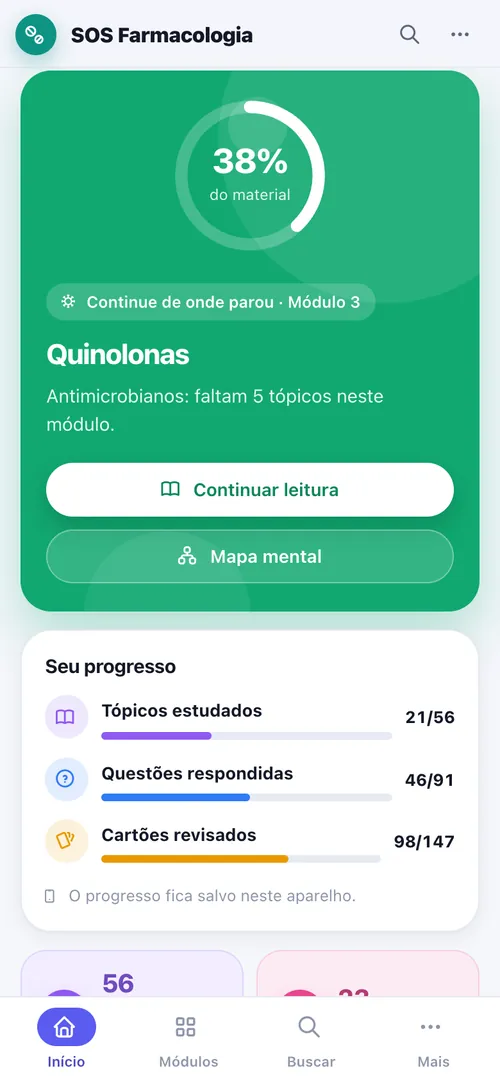
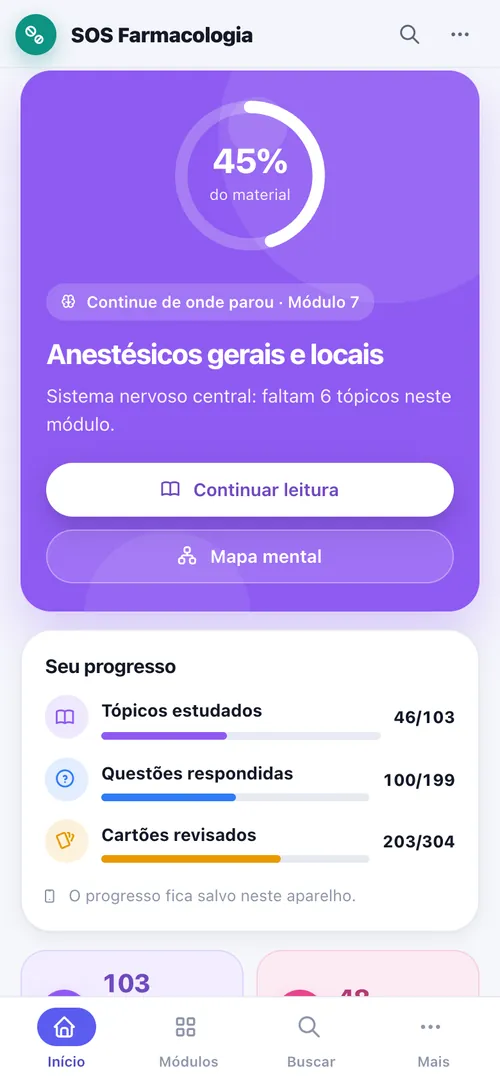
SOS Farmacologia: descrição dos 17 módulos (vitrine v21, print novo, Multi, Ajuda, portal e planos)

diff --git a/vitrine.js b/vitrine.js
@@ -40,7 +40,7 @@ const MULTI=[
  {id:'farmauti',nm:'FarmaUTI',ic:'ti-pill',img:'farmauti-390',url:'farmauti/',d:'Para quem vai começar a residência em Farmácia em Terapia Intensiva: leituras com revisão essencial, interações com mecanismo e conduta, prescrições de UTI para avaliar, casos clínicos, bulário e calculadoras.'},
  {id:'enarefarmacia',nm:'AprovaFarma',ic:'ti-vaccine-bottle',img:'enarefarmacia-390',url:'quiz-enare-farmacia/',d:'Residência e concursos em Farmácia (ENARE, EBSERH e residências): questões comentadas por tema do edital, provas anteriores em simulado, flashcards e painel de desempenho.'},
  {id:'sosfarmacia',nm:'SOS Farmácia Comercial',ic:'ti-prescription',img:'sosfarmacia-390',url:'sos-farmacia/',d:'Para alunos do 9º e 10º semestres de Farmácia e farmacêuticos recém-formados que vão trabalhar em farmácia comercial: 14 módulos (legislação, Portaria 344/98, RDC 471/2021, SNGPC passo a passo, vigilância sanitária, POPs, prateleiras e validade, código MS e DCB, serviços clínicos, MIP e outros), calculadora de dose e bulário de bolso, cada módulo com resumo, mapa mental e material de apoio, e PDF com marca-d\'água.'},
- {id:'sosfarmacologia',nm:'SOS Farmacologia',ic:'ti-notebook',img:'sosfarmacologia-390',url:'sos-farmacologia/',d:'Para alunos do 9º e 10º semestres de Farmácia e farmacêuticos recém-formados: farmacologia aplicada ao balcão e à dispensação em 8 módulos (princípios para o balcão, sistema nervoso central, antimicrobianos, cardiovascular e renal, endócrino, AINEs, corticoides e antialérgicos, respiratório e interações medicamentosas), cada um com resumo, mapa mental, tabelas, questões comentadas e cartões, e PDF com marca-d\'água.'}
+ {id:'sosfarmacologia',nm:'SOS Farmacologia',ic:'ti-notebook',img:'sosfarmacologia-390',url:'sos-farmacologia/',d:'Para alunos do 9º e 10º semestres de Farmácia e farmacêuticos recém-formados: farmacologia aplicada à prática do farmacêutico, para orientar o paciente, conferir a prescrição, reconhecer risco e encaminhar. 17 módulos (farmacocinética e farmacodinâmica, cardiovascular, renal, respiratório, gastrointestinal, endócrino, sistema nervoso central, antimicrobianos, antifúngicos, antivirais, antiparasitários, quimioterapia antineoplásica, imunofarmacologia, anti-inflamatórios e coxibes, antialérgicos, glicocorticoides e interações medicamentosas), cada um com resumo, mapa mental, tabelas, questões comentadas e cartões, e PDF com marca-d\'água.'}
 ];
 const INST=[
  {nm:'Sistema Hospitalar (HospSys)',ic:'ti-building-hospital',url:'hospsys.html',d:'Prontuário, prescrição, leitos, bloco, farmácia e faturamento, dentro do hospital.'},
@@ -179,7 +179,7 @@ const PLANOS_PADRAO={produtos:[
  {id:'enfermare',curto:'Enfermare',linha:'provas',publico:'enfermagem',resumo:'Enfermagem: residência multiprofissional (ENARE), concursos (EBSERH) e títulos de especialista, com questões de provas reais comentadas.',preco:{mensal:49.9,anual:397}},
  {id:'fisiare',curto:'Fisiare',linha:'provas',publico:'fisioterapia',resumo:'Fisioterapia: residência multiprofissional (ENARE), concursos (EBSERH e outros) e título de especialista (COFFITO), com questões de provas reais comentadas.',preco:{mensal:49.9,anual:397}},
  {id:'sosfarmacia',curto:'SOS Farmácia',linha:'provas',publico:'farmacia',resumo:'Para quem vai trabalhar em farmácia comercial: legislação, Portaria 344/98, RDC 471/2021, SNGPC, vigilância sanitária, POPs e MIP, com calculadora de dose e bulário, em 14 módulos.',preco:{mensal:49.9,anual:397}},
- {id:'sosfarmacologia',curto:'SOS Farmacologia',linha:'provas',publico:'farmacia',resumo:'Farmacologia aplicada ao balcão e à dispensação: princípios, sistema nervoso central, antimicrobianos, cardiovascular e renal, endócrino, AINEs e corticoides, respiratório e interações, em 8 módulos.',preco:{mensal:49.9,anual:397}}]};
+ {id:'sosfarmacologia',curto:'SOS Farmacologia',linha:'provas',publico:'farmacia',resumo:'Farmacologia para estudantes de Farmácia e recém-formados em 17 módulos: dos sistemas (cardiovascular, renal, respiratório, gastrointestinal, endócrino e nervoso central) aos antimicrobianos, antifúngicos, antivirais, antiparasitários, quimioterapia, imunofarmacologia, anti-inflamatórios, antialérgicos, glicocorticoides e interações.',preco:{mensal:49.9,anual:397}}]};
 const brl=v=>v.toLocaleString('pt-BR',{style:'currency',currency:'BRL',minimumFractionDigits:Number.isInteger(v)?0:2});
 async function planos(){try{const r=await fetch('planos.json',{cache:'no-cache'});if(r.ok)return await r.json()}catch(e){}return PLANOS_PADRAO}
 const calcs=$$('.calc[data-linhas]');

diff --git a/medtech-multi.html b/medtech-multi.html
@@ -10,7 +10,7 @@
 <link rel="preconnect" href="https://fonts.gstatic.com" crossorigin>
 <link href="https://fonts.googleapis.com/css2?family=Inter:wght@400;500;600&display=swap" rel="stylesheet">
 <link rel="preload" href="fonts/ti-vitrine.woff2" as="font" type="font/woff2" crossorigin>
-<link rel="stylesheet" href="vitrine.css?v=20">
+<link rel="stylesheet" href="vitrine.css?v=21">
 <link rel="icon" type="image/png" href="favicon.png">
 </head>
 <body data-linha="multi">
@@ -89,7 +89,7 @@
       <div class="feat"><i class="ti ti-pill"></i><div><b>FarmaUTI</b><span>Para quem vai começar a residência em Farmácia em Terapia Intensiva: cronograma até o início, leituras com revisão essencial, interações com mecanismo e conduta, prescrições de UTI para avaliar, casos clínicos, bulário e calculadoras.</span></div></div>
       <div class="feat"><i class="ti ti-vaccine-bottle"></i><div><b>AprovaFarma</b><span>Residência e concursos em Farmácia (ENARE, EBSERH e residências): questões comentadas por tema do edital, provas anteriores em simulado, flashcards e painel de desempenho.</span></div></div>
       <div class="feat"><i class="ti ti-prescription"></i><div><b>SOS Farmácia Comercial</b><span>Para alunos do 9º e 10º semestres de Farmácia e farmacêuticos recém-formados que vão trabalhar em farmácia comercial: 14 módulos (legislação, Portaria 344/98, RDC 471/2021, SNGPC passo a passo, vigilância sanitária, POPs, prateleiras e validade, código MS e DCB, serviços clínicos, MIP e outros), calculadora de dose e bulário de bolso, cada módulo com resumo, mapa mental e material de apoio, e PDF com marca-d'água.</span></div></div>
-      <div class="feat"><i class="ti ti-notebook"></i><div><b>SOS Farmacologia</b><span>Para alunos do 9º e 10º semestres de Farmácia e farmacêuticos recém-formados: farmacologia aplicada ao balcão e à dispensação, para orientar o paciente, reconhecer risco e encaminhar. 8 módulos (princípios para o balcão, sistema nervoso central, antimicrobianos, cardiovascular e renal, endócrino, AINEs, corticoides e antialérgicos, respiratório e interações medicamentosas), cada um com resumo, mapa mental, tabelas, questões comentadas e cartões, e PDF com marca-d'água.</span></div></div>
+      <div class="feat"><i class="ti ti-notebook"></i><div><b>SOS Farmacologia</b><span>Para alunos do 9º e 10º semestres de Farmácia e farmacêuticos recém-formados: farmacologia aplicada à prática do farmacêutico, para orientar o paciente, conferir a prescrição, reconhecer risco e encaminhar. 17 módulos (farmacocinética e farmacodinâmica, cardiovascular, renal, respiratório, gastrointestinal, endócrino, sistema nervoso central, antimicrobianos, antifúngicos, antivirais, antiparasitários, quimioterapia antineoplásica, imunofarmacologia, anti-inflamatórios e coxibes, antialérgicos, glicocorticoides e interações medicamentosas), cada um com resumo, mapa mental, tabelas, questões comentadas e cartões, e PDF com marca-d'água.</span></div></div>
     </div>
     <div class="row rv"><a class="pill line" href="farmauti/">Abrir o FarmaUTI</a><a class="pill line" href="quiz-enare-farmacia/">Abrir o AprovaFarma</a><a class="pill line" href="sos-farmacia/">Abrir o SOS Farmácia Comercial</a><a class="pill line" href="sos-farmacologia/">Abrir o SOS Farmacologia</a></div>
 </div></section>
@@ -114,6 +114,6 @@
   </div>
   <div class="fbot"><span>MedTech © 2026 · M PARENTE OLIVEIRA TECNOLOGIA LTDA · CNPJ 69.544.873/0001-61 · Rua Visconde de Mauá, 3111, Dionísio Torres, Fortaleza – CE, 60125-161 · Pagamentos pelo Mercado Pago</span><span>medtechbr.com.br</span></div>
 </div></footer>
-<script src="vitrine.js?v=20"></script>
+<script src="vitrine.js?v=21"></script>
 </body>
 </html>

diff --git a/_vitrine/paginas/medtech-multi.html b/_vitrine/paginas/medtech-multi.html
@@ -51,7 +51,7 @@
       <div class="feat"><i class="ti ti-pill"></i><div><b>FarmaUTI</b><span>Para quem vai começar a residência em Farmácia em Terapia Intensiva: cronograma até o início, leituras com revisão essencial, interações com mecanismo e conduta, prescrições de UTI para avaliar, casos clínicos, bulário e calculadoras.</span></div></div>
       <div class="feat"><i class="ti ti-vaccine-bottle"></i><div><b>AprovaFarma</b><span>Residência e concursos em Farmácia (ENARE, EBSERH e residências): questões comentadas por tema do edital, provas anteriores em simulado, flashcards e painel de desempenho.</span></div></div>
       <div class="feat"><i class="ti ti-prescription"></i><div><b>SOS Farmácia Comercial</b><span>Para alunos do 9º e 10º semestres de Farmácia e farmacêuticos recém-formados que vão trabalhar em farmácia comercial: 14 módulos (legislação, Portaria 344/98, RDC 471/2021, SNGPC passo a passo, vigilância sanitária, POPs, prateleiras e validade, código MS e DCB, serviços clínicos, MIP e outros), calculadora de dose e bulário de bolso, cada módulo com resumo, mapa mental e material de apoio, e PDF com marca-d'água.</span></div></div>
-      <div class="feat"><i class="ti ti-notebook"></i><div><b>SOS Farmacologia</b><span>Para alunos do 9º e 10º semestres de Farmácia e farmacêuticos recém-formados: farmacologia aplicada ao balcão e à dispensação, para orientar o paciente, reconhecer risco e encaminhar. 8 módulos (princípios para o balcão, sistema nervoso central, antimicrobianos, cardiovascular e renal, endócrino, AINEs, corticoides e antialérgicos, respiratório e interações medicamentosas), cada um com resumo, mapa mental, tabelas, questões comentadas e cartões, e PDF com marca-d'água.</span></div></div>
+      <div class="feat"><i class="ti ti-notebook"></i><div><b>SOS Farmacologia</b><span>Para alunos do 9º e 10º semestres de Farmácia e farmacêuticos recém-formados: farmacologia aplicada à prática do farmacêutico, para orientar o paciente, conferir a prescrição, reconhecer risco e encaminhar. 17 módulos (farmacocinética e farmacodinâmica, cardiovascular, renal, respiratório, gastrointestinal, endócrino, sistema nervoso central, antimicrobianos, antifúngicos, antivirais, antiparasitários, quimioterapia antineoplásica, imunofarmacologia, anti-inflamatórios e coxibes, antialérgicos, glicocorticoides e interações medicamentosas), cada um com resumo, mapa mental, tabelas, questões comentadas e cartões, e PDF com marca-d'água.</span></div></div>
     </div>
     <div class="row rv"><a class="pill line" href="farmauti/">Abrir o FarmaUTI</a><a class="pill line" href="quiz-enare-farmacia/">Abrir o AprovaFarma</a><a class="pill line" href="sos-farmacia/">Abrir o SOS Farmácia Comercial</a><a class="pill line" href="sos-farmacologia/">Abrir o SOS Farmacologia</a></div>
 </div></section>

diff --git a/ajuda.html b/ajuda.html
@@ -10,7 +10,7 @@
 <link rel="preconnect" href="https://fonts.gstatic.com" crossorigin>
 <link href="https://fonts.googleapis.com/css2?family=Inter:wght@400;500;600&display=swap" rel="stylesheet">
 <link rel="preload" href="fonts/ti-vitrine.woff2" as="font" type="font/woff2" crossorigin>
-<link rel="stylesheet" href="vitrine.css?v=20">
+<link rel="stylesheet" href="vitrine.css?v=21">
 <link rel="icon" type="image/png" href="favicon.png">
 </head>
 <body>
@@ -131,7 +131,7 @@
           <li><b>FarmaUTI</b> (R$ 49,90 por mês ou R$ 397 por ano), para farmacêuticos: residência em Farmácia em Terapia Intensiva.</li>
           <li><b>AprovaFarma</b> (R$ 49,90 por mês ou R$ 397 por ano), para farmacêuticos: residência e concursos em Farmácia (ENARE, EBSERH e residências).</li>
           <li><b>SOS Farmácia Comercial</b> (R$ 49,90 por mês ou R$ 397 por ano), para estudantes de Farmácia e farmacêuticos recém-formados: farmácia comercial, em 14 módulos com resumo, mapa mental, material de apoio e PDF, mais calculadora de dose e bulário.</li>
-          <li><b>SOS Farmacologia</b> (R$ 49,90 por mês ou R$ 397 por ano), para estudantes de Farmácia e farmacêuticos recém-formados: farmacologia aplicada ao balcão e à dispensação, em 8 módulos com resumo, mapa mental, material de apoio e PDF.</li>
+          <li><b>SOS Farmacologia</b> (R$ 49,90 por mês ou R$ 397 por ano), para estudantes de Farmácia e farmacêuticos recém-formados: farmacologia em 17 módulos (dos sistemas aos anti-infecciosos, quimioterapia, imunofarmacologia e interações), com resumo, mapa mental, material de apoio e PDF.</li>
         </ul>
         <p>Cada prova e cada app da linha MedTech Multi (enfermagem, fisioterapia e farmácia) é um plano à parte. O MedTech App não inclui as provas, e as provas não incluem o MedTech App. Veja os planos na <a href="index.html#planos">página inicial</a>.</p>
       </div>
@@ -213,6 +213,6 @@
   </div>
   <div class="fbot"><span>MedTech © 2026 · M PARENTE OLIVEIRA TECNOLOGIA LTDA · CNPJ 69.544.873/0001-61 · Rua Visconde de Mauá, 3111, Dionísio Torres, Fortaleza – CE, 60125-161 · Pagamentos pelo Mercado Pago</span><span>medtechbr.com.br</span></div>
 </div></footer>
-<script src="vitrine.js?v=20"></script>
+<script src="vitrine.js?v=21"></script>
 </body>
 </html>

diff --git a/app.html b/app.html
@@ -274,7 +274,7 @@ const CATALOGO = [
   { id:'farmauti',      nm:'FarmaUTI',         ic:'ti-pill',             url:BASE+'farmauti/',             cat:'Farmácia',             linha:'provas', sub:'residência em Farmácia em Terapia Intensiva', c:'#4545D8' },
   { id:'enarefarmacia', nm:'AprovaFarma', ic:'ti-vaccine-bottle',        url:BASE+'quiz-enare-farmacia/',  cat:'Farmácia',             linha:'provas', sub:'residência e concursos em Farmácia', c:'#0A3F3B' },
   { id:'sosfarmacia',   nm:'SOS Farmácia Comercial', ic:'ti-first-aid-kit', url:BASE+'sos-farmacia/',         cat:'Farmácia',             linha:'provas', sub:'farmácia comercial: legislação, Portaria 344, SNGPC, POPs, calculadora e bulário', c:'#C8373C' },
-  { id:'sosfarmacologia', nm:'SOS Farmacologia', ic:'ti-pills',    url:BASE+'sos-farmacologia/',     cat:'Farmácia',             linha:'provas', sub:'farmacologia no balcão: SNC, antimicrobianos, cardiovascular, endócrino, respiratório e interações', c:'#0B7A6E' },
+  { id:'sosfarmacologia', nm:'SOS Farmacologia', ic:'ti-pills',    url:BASE+'sos-farmacologia/',     cat:'Farmácia',             linha:'provas', sub:'farmacologia em 17 módulos: sistemas, anti-infecciosos, quimioterapia, imunofarmacologia e interações', c:'#0B7A6E' },
   /* enfermagem (14/10/2026): linha MedTech Multi da vitrine, mesma regra dos de farmácia */
   { id:'enfermare',     nm:'Enfermare',        ic:'ti-droplet',          url:BASE+'enfermare/',            cat:'Enfermagem',           linha:'provas', sub:'residência multiprofissional, concursos (EBSERH) e títulos de Enfermagem', c:'#B0306A' },
   /* fisioterapia (15/10/2026): linha MedTech Multi */

diff --git a/provas.html b/provas.html
@@ -274,7 +274,7 @@ const CATALOGO = [
   { id:'farmauti',      nm:'FarmaUTI',         ic:'ti-pill',             url:BASE+'farmauti/',             cat:'Farmácia',             linha:'provas', sub:'residência em Farmácia em Terapia Intensiva', c:'#4545D8' },
   { id:'enarefarmacia', nm:'AprovaFarma', ic:'ti-vaccine-bottle',        url:BASE+'quiz-enare-farmacia/',  cat:'Farmácia',             linha:'provas', sub:'residência e concursos em Farmácia', c:'#0A3F3B' },
   { id:'sosfarmacia',   nm:'SOS Farmácia Comercial', ic:'ti-first-aid-kit', url:BASE+'sos-farmacia/',         cat:'Farmácia',             linha:'provas', sub:'farmácia comercial: legislação, Portaria 344, SNGPC, POPs, calculadora e bulário', c:'#C8373C' },
-  { id:'sosfarmacologia', nm:'SOS Farmacologia', ic:'ti-pills',    url:BASE+'sos-farmacologia/',     cat:'Farmácia',             linha:'provas', sub:'farmacologia no balcão: SNC, antimicrobianos, cardiovascular, endócrino, respiratório e interações', c:'#0B7A6E' },
+  { id:'sosfarmacologia', nm:'SOS Farmacologia', ic:'ti-pills',    url:BASE+'sos-farmacologia/',     cat:'Farmácia',             linha:'provas', sub:'farmacologia em 17 módulos: sistemas, anti-infecciosos, quimioterapia, imunofarmacologia e interações', c:'#0B7A6E' },
   /* enfermagem (14/10/2026): linha MedTech Multi da vitrine, mesma regra dos de farmácia */
   { id:'enfermare',     nm:'Enfermare',        ic:'ti-droplet',          url:BASE+'enfermare/',            cat:'Enfermagem',           linha:'provas', sub:'residência multiprofissional, concursos (EBSERH) e títulos de Enfermagem', c:'#B0306A' },
   /* fisioterapia (15/10/2026): linha MedTech Multi */

diff --git a/_vitrine/paginas/ajuda.html b/_vitrine/paginas/ajuda.html
@@ -93,7 +93,7 @@
           <li><b>FarmaUTI</b> (R$ 49,90 por mês ou R$ 397 por ano), para farmacêuticos: residência em Farmácia em Terapia Intensiva.</li>
           <li><b>AprovaFarma</b> (R$ 49,90 por mês ou R$ 397 por ano), para farmacêuticos: residência e concursos em Farmácia (ENARE, EBSERH e residências).</li>
           <li><b>SOS Farmácia Comercial</b> (R$ 49,90 por mês ou R$ 397 por ano), para estudantes de Farmácia e farmacêuticos recém-formados: farmácia comercial, em 14 módulos com resumo, mapa mental, material de apoio e PDF, mais calculadora de dose e bulário.</li>
-          <li><b>SOS Farmacologia</b> (R$ 49,90 por mês ou R$ 397 por ano), para estudantes de Farmácia e farmacêuticos recém-formados: farmacologia aplicada ao balcão e à dispensação, em 8 módulos com resumo, mapa mental, material de apoio e PDF.</li>
+          <li><b>SOS Farmacologia</b> (R$ 49,90 por mês ou R$ 397 por ano), para estudantes de Farmácia e farmacêuticos recém-formados: farmacologia em 17 módulos (dos sistemas aos anti-infecciosos, quimioterapia, imunofarmacologia e interações), com resumo, mapa mental, material de apoio e PDF.</li>
         </ul>
         <p>Cada prova e cada app da linha MedTech Multi (enfermagem, fisioterapia e farmácia) é um plano à parte. O MedTech App não inclui as provas, e as provas não incluem o MedTech App. Veja os planos na <a href="index.html#planos">página inicial</a>.</p>
       </div>

diff --git a/capacita.html b/capacita.html
@@ -10,7 +10,7 @@
 <link rel="preconnect" href="https://fonts.gstatic.com" crossorigin>
 <link href="https://fonts.googleapis.com/css2?family=Inter:wght@400;500;600&display=swap" rel="stylesheet">
 <link rel="preload" href="fonts/ti-vitrine.woff2" as="font" type="font/woff2" crossorigin>
-<link rel="stylesheet" href="vitrine.css?v=20">
+<link rel="stylesheet" href="vitrine.css?v=21">
 <link rel="icon" type="image/png" href="favicon.png">
 </head>
 <body data-linha="institucional">
@@ -71,6 +71,6 @@
   </div>
   <div class="fbot"><span>MedTech © 2026 · M PARENTE OLIVEIRA TECNOLOGIA LTDA · CNPJ 69.544.873/0001-61 · Rua Visconde de Mauá, 3111, Dionísio Torres, Fortaleza – CE, 60125-161 · Pagamentos pelo Mercado Pago</span><span>medtechbr.com.br</span></div>
 </div></footer>
-<script src="vitrine.js?v=20"></script>
+<script src="vitrine.js?v=21"></script>
 </body>
 </html>

diff --git a/casos.html b/casos.html
@@ -10,7 +10,7 @@
 <link rel="preconnect" href="https://fonts.gstatic.com" crossorigin>
 <link href="https://fonts.googleapis.com/css2?family=Inter:wght@400;500;600&display=swap" rel="stylesheet">
 <link rel="preload" href="fonts/ti-vitrine.woff2" as="font" type="font/woff2" crossorigin>
-<link rel="stylesheet" href="vitrine.css?v=20">
+<link rel="stylesheet" href="vitrine.css?v=21">
 <link rel="icon" type="image/png" href="favicon.png">
 </head>
 <body data-linha="institucional">
@@ -73,6 +73,6 @@
   </div>
   <div class="fbot"><span>MedTech © 2026 · M PARENTE OLIVEIRA TECNOLOGIA LTDA · CNPJ 69.544.873/0001-61 · Rua Visconde de Mauá, 3111, Dionísio Torres, Fortaleza – CE, 60125-161 · Pagamentos pelo Mercado Pago</span><span>medtechbr.com.br</span></div>
 </div></footer>
-<script src="vitrine.js?v=20"></script>
+<script src="vitrine.js?v=21"></script>
 </body>
 </html>

diff --git a/clinicar.html b/clinicar.html
@@ -10,7 +10,7 @@
 <link rel="preconnect" href="https://fonts.gstatic.com" crossorigin>
 <link href="https://fonts.googleapis.com/css2?family=Inter:wght@400;500;600&display=swap" rel="stylesheet">
 <link rel="preload" href="fonts/ti-vitrine.woff2" as="font" type="font/woff2" crossorigin>
-<link rel="stylesheet" href="vitrine.css?v=20">
+<link rel="stylesheet" href="vitrine.css?v=21">
 <link rel="icon" type="image/png" href="favicon.png">
 </head>
 <body data-linha="institucional">
@@ -67,6 +67,6 @@
   </div>
   <div class="fbot"><span>MedTech © 2026 · M PARENTE OLIVEIRA TECNOLOGIA LTDA · CNPJ 69.544.873/0001-61 · Rua Visconde de Mauá, 3111, Dionísio Torres, Fortaleza – CE, 60125-161 · Pagamentos pelo Mercado Pago</span><span>medtechbr.com.br</span></div>
 </div></footer>
-<script src="vitrine.js?v=20"></script>
+<script src="vitrine.js?v=21"></script>
 </body>
 </html>

diff --git a/faturamento.html b/faturamento.html
@@ -10,7 +10,7 @@
 <link rel="preconnect" href="https://fonts.gstatic.com" crossorigin>
 <link href="https://fonts.googleapis.com/css2?family=Inter:wght@400;500;600&display=swap" rel="stylesheet">
 <link rel="preload" href="fonts/ti-vitrine.woff2" as="font" type="font/woff2" crossorigin>
-<link rel="stylesheet" href="vitrine.css?v=20">
+<link rel="stylesheet" href="vitrine.css?v=21">
 <link rel="icon" type="image/png" href="favicon.png">
 </head>
 <body data-linha="institucional">
@@ -88,6 +88,6 @@
   </div>
   <div class="fbot"><span>MedTech © 2026 · M PARENTE OLIVEIRA TECNOLOGIA LTDA · CNPJ 69.544.873/0001-61 · Rua Visconde de Mauá, 3111, Dionísio Torres, Fortaleza – CE, 60125-161 · Pagamentos pelo Mercado Pago</span><span>medtechbr.com.br</span></div>
 </div></footer>
-<script src="vitrine.js?v=20"></script>
+<script src="vitrine.js?v=21"></script>
 </body>
 </html>

diff --git a/hospsys.html b/hospsys.html
@@ -10,7 +10,7 @@
 <link rel="preconnect" href="https://fonts.gstatic.com" crossorigin>
 <link href="https://fonts.googleapis.com/css2?family=Inter:wght@400;500;600&display=swap" rel="stylesheet">
 <link rel="preload" href="fonts/ti-vitrine.woff2" as="font" type="font/woff2" crossorigin>
-<link rel="stylesheet" href="vitrine.css?v=20">
+<link rel="stylesheet" href="vitrine.css?v=21">
 <link rel="icon" type="image/png" href="favicon.png">
 </head>
 <body data-linha="institucional">
@@ -82,6 +82,6 @@
   </div>
   <div class="fbot"><span>MedTech © 2026 · M PARENTE OLIVEIRA TECNOLOGIA LTDA · CNPJ 69.544.873/0001-61 · Rua Visconde de Mauá, 3111, Dionísio Torres, Fortaleza – CE, 60125-161 · Pagamentos pelo Mercado Pago</span><span>medtechbr.com.br</span></div>
 </div></footer>
-<script src="vitrine.js?v=20"></script>
+<script src="vitrine.js?v=21"></script>
 </body>
 </html>
